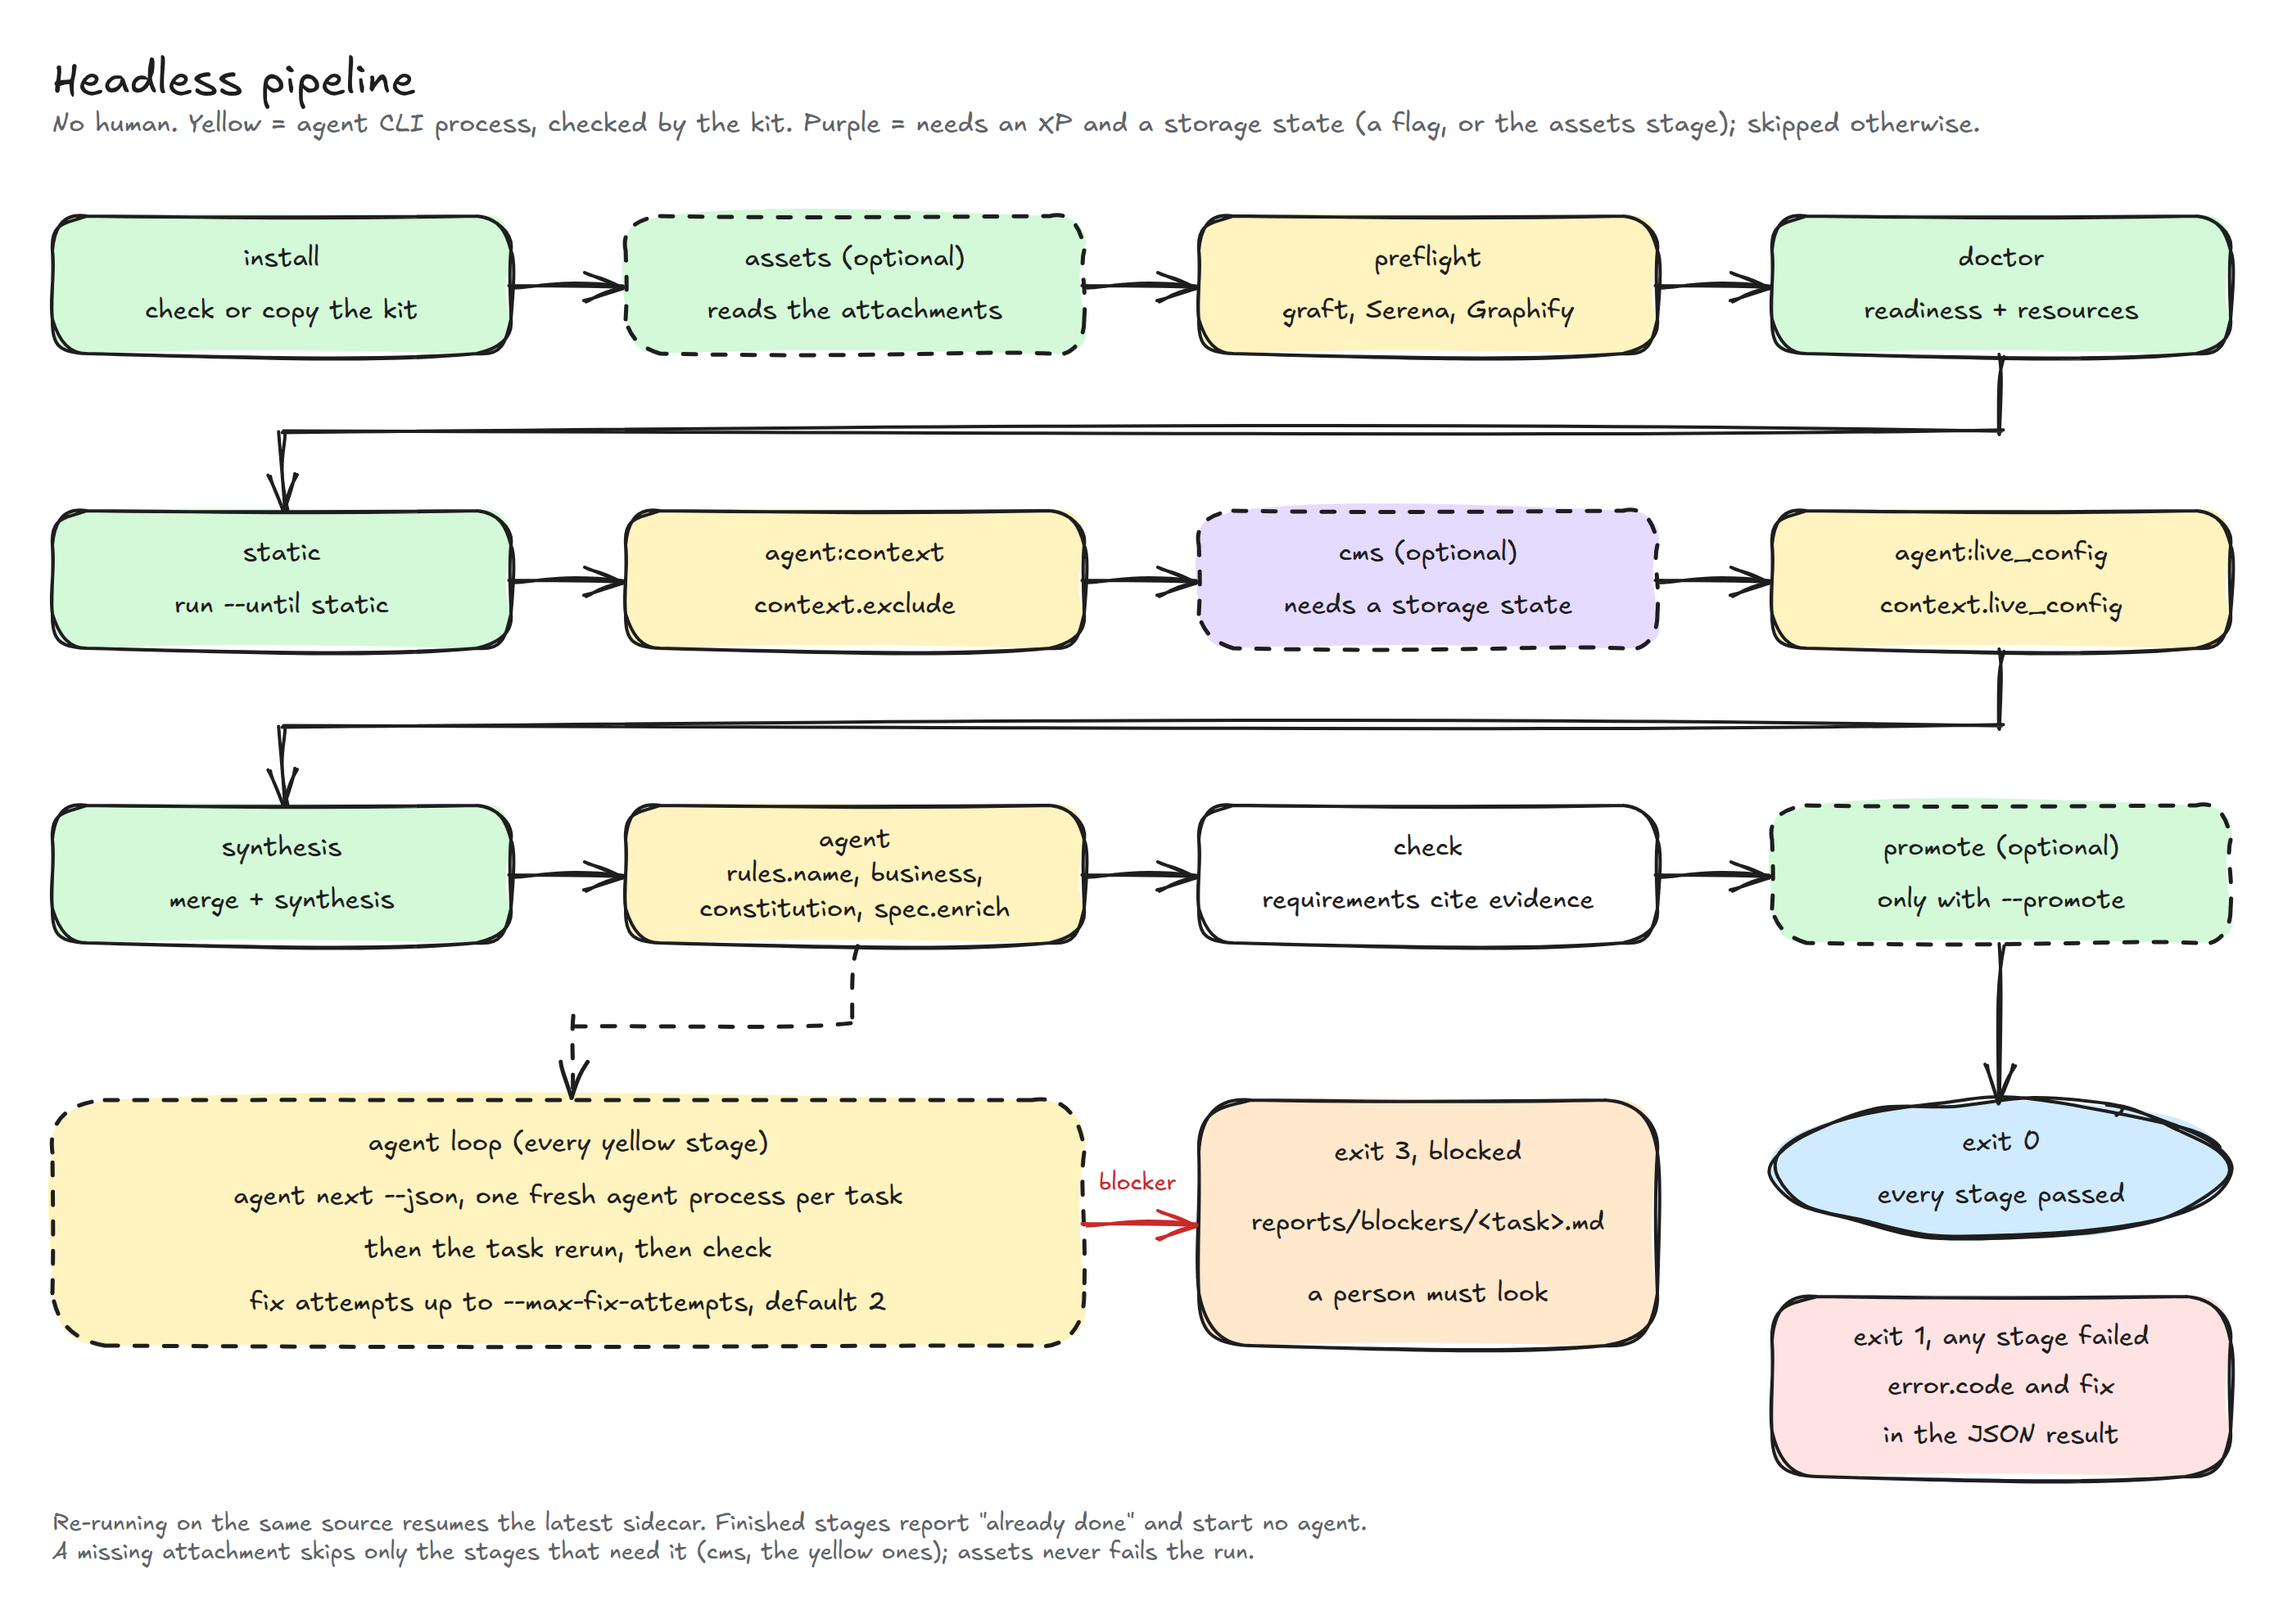
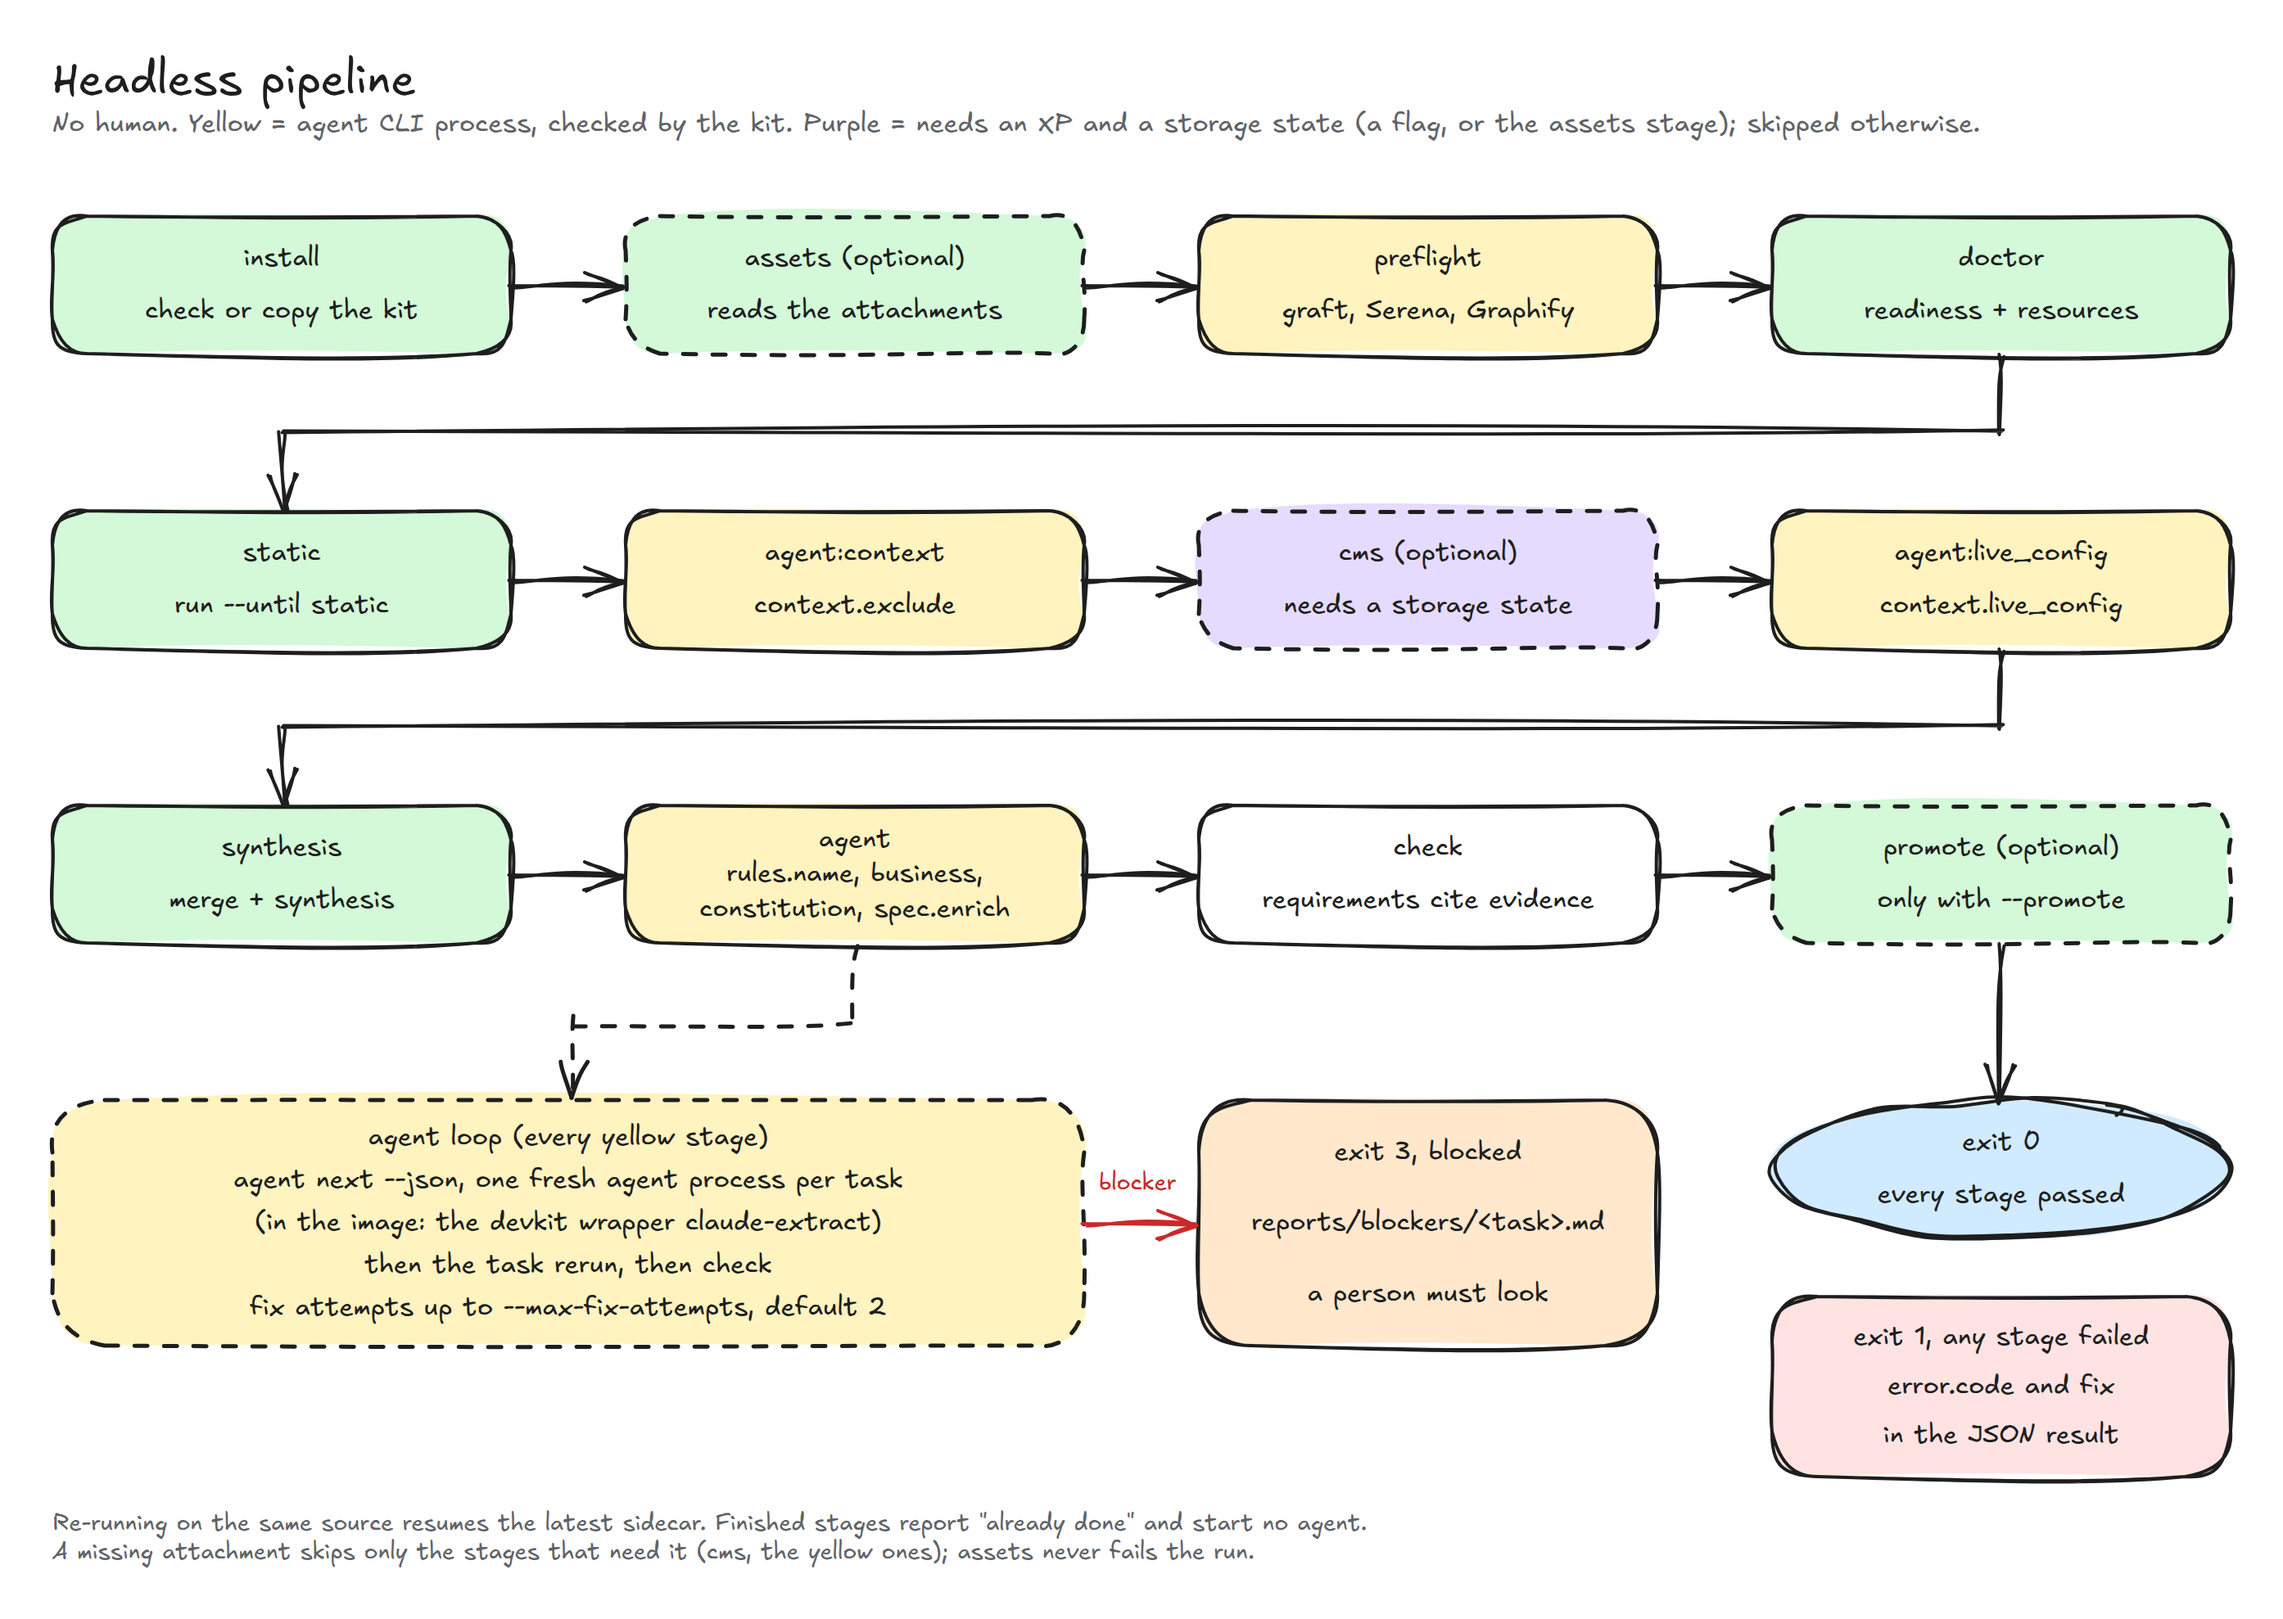
Pin devkit in CI and show it as a prerequisite in the docs and diagrams
* Pin DEVKIT_REF to devkit f8ab1af; the default image built and passed docker/smoke.sh against that commit
* docs/usage.md, flow.md and profiles.md: devkit is required on PATH, and deps can carry a fix: text
* Diagrams: devkit prerequisite in the install panel and phase 1 inputs, and the devkit wrapper in the headless agent loop; rebuilt PNGs and new excalidraw.com links

Changed region(s): [[0.0936, 0.6785, 0.4057, 0.8327]]

diff --git a/docs/diagrams/README.md b/docs/diagrams/README.md
@@ -11,17 +11,17 @@ phases and sidecar lineage. The README diagram (how it works) is separate.
 
 - [extractkit-flow.excalidraw](extractkit-flow.excalidraw)
 - [extractkit-flow.png](extractkit-flow.png)
-- Open: <https://excalidraw.com/#json=SF9ZfaEMABdwCSaedjh0v,DCd7sOP3fXj1JwN2oRKpwQ>
+- Open: <https://excalidraw.com/#json=V2_8BWw_qv1BXk24h2xhZ,mJmssw5ikE0iBX8auGxjsQ>
 
 ## Individual
 
 | Panel | Source | Preview | Open |
 | --- | --- | --- | --- |
 | How it works (README) | [how-it-works.excalidraw](how-it-works.excalidraw) | [how-it-works.png](how-it-works.png) | [excalidraw.com](https://excalidraw.com/#json=CgbajXnyzM7-CHPKY6VNP,FXaohl_SOOt34Qp99684Zw) |
-| Install and where to run | [install-layout.excalidraw](install-layout.excalidraw) | [install-layout.png](install-layout.png) | [excalidraw.com](https://excalidraw.com/#json=A54UdRnExYtH8yUY_5Gwr,xhsHN4ksTQgTkkteitFZyA) |
+| Install and where to run | [install-layout.excalidraw](install-layout.excalidraw) | [install-layout.png](install-layout.png) | [excalidraw.com](https://excalidraw.com/#json=9Dk7QZDtitrYmc3ilCcnN,dYvpLG2ZC1ZgkqCdDnwxVA) |
 | Operator path | [operator-path.excalidraw](operator-path.excalidraw) | [operator-path.png](operator-path.png) | [excalidraw.com](https://excalidraw.com/#json=jdPyvKFgw96D-qEDHCCNw,lYai_UblZcwkcVdencu5Nw) |
-| Headless pipeline | [headless-pipeline.excalidraw](headless-pipeline.excalidraw) | [headless-pipeline.png](headless-pipeline.png) | [excalidraw.com](https://excalidraw.com/#json=yKd9OziT_Cdd_Lp8unI49,4SBK_0HSBwCQf6xmBNaUIA) |
-| Phases | [phases.excalidraw](phases.excalidraw) | [phases.png](phases.png) | [excalidraw.com](https://excalidraw.com/#json=75q1UyfrmmlQ9hUQE092V,6IHLa5VQArfFq3jxwX9Auw) |
+| Headless pipeline | [headless-pipeline.excalidraw](headless-pipeline.excalidraw) | [headless-pipeline.png](headless-pipeline.png) | [excalidraw.com](https://excalidraw.com/#json=95YBJyK6liGN99qfcYE2U,s2_YV3BgTsJFbyf-c1oQ7g) |
+| Phases | [phases.excalidraw](phases.excalidraw) | [phases.png](phases.png) | [excalidraw.com](https://excalidraw.com/#json=cvE7i06ADa5rLObHQZarb,_UeFz_OL_o0dyGPjF1qC1Q) |
 | Sidecar lineage | [sidecar-lineage.excalidraw](sidecar-lineage.excalidraw) | [sidecar-lineage.png](sidecar-lineage.png) | [excalidraw.com](https://excalidraw.com/#json=UZgDhl2KG8Kkdha2bzID3,EduNWGcD_lwBxxiY3LAtNQ) |
 
 The local `.excalidraw` and `.png` files show the detached install, the
@@ -36,7 +36,11 @@ lineage. Since 6 Oct they also show the `constitution` agent task, the
 canvas also show the `assets` stage (twelve stages) and the rule that a
 missing attachment skips stages instead of failing the run. Their
 excalidraw.com links were re-exported that day; the other four open the
-6 Oct version, which is still accurate. After a rebuild, re-export with
+6 Oct version. Since 9 Oct the install panel shows devkit as a
+prerequisite, the Phases panel lists it in the preflight input, and the
+headless agent loop names the devkit wrapper (`claude-extract`). Those four
+drawings were re-exported that day; operator path, sidecar lineage and how
+it works still open the 6 Oct version. After a rebuild, re-export with
 `excalidraw-cli export <file>.excalidraw` (that uploads the drawing) and
 replace the links.
 

diff --git a/docs/flow.md b/docs/flow.md
@@ -6,7 +6,8 @@ them.
 
 ## Operator path
 
-Install once with `./extractkit install` in the kit repo, then work from the
+Install devkit first (`deps` and `doctor` fail without it), then install once
+with `./extractkit install` in the kit repo, and work from the
 legacy checkout, in an agent session opened there. The install copies the kit
 into your home, so the kit checkout can be deleted afterwards, and the CLI
 refuses to run an extract from the kit repo.
@@ -92,7 +93,7 @@ the phase; it only makes the output thinner.
 <!-- markdownlint-disable MD013 -->
 | # | Phase | Required input | Optional input | Output |
 | --- | --- | --- | --- | --- |
-| 1 | `preflight` | Python 3.12+ with PyYAML and jsonschema; with `--source`: the checkout's Serena onboarding (`.serena/`) and Graphify index (`graphify-out/`) | graft index (`graft/`, a warning when absent); `--profile` (which deps to probe) | **No sidecar.** The install check, and a report with the stack it would detect and the build scope |
+| 1 | `preflight` | Python 3.12+ with PyYAML and jsonschema; `devkit` on PATH; with `--source`: the checkout's Serena onboarding (`.serena/`) and Graphify index (`graphify-out/`) | graft index (`graft/`, a warning when absent); `--profile` (which deps to probe) | **No sidecar.** The install check, and a report with the stack it would detect and the build scope |
 | 2 | `context` | `--source`; one stack marker unless `--profile` is given | `--profile` (skips detection); `--exclude`; `<checkout>/.extractkit/profile.yaml` | **`context/build-scope.json`**, **`context/profile.yaml`** (the overlay) |
 | 3 | `static` | `--source`; the overlay from phase 2 (`run` writes it when missing) | `graft/`, `graphify-out/` (`map.code`, `map.semantic`); `--exclude`; the `exclude` decided by `context.exclude` | **`inventory/static.json`**, `inventory/controllers.json`, `inventory/templates.json`, **`map/*.json`**, **`integrations/openapi.yaml`**, `integrations/swagger-ui/`, `MANIFEST.yaml` |
 | 4 | `cms` (optional phase) | A local or review XP; `--branch draft\|master`; `--storage-state` (a Playwright login) | `--guillotine`, `--xp-host`, `--project` (default `http://localhost:8080`, project `en`); `--cms-key` (default `/en`); `--configenv`; `--round2`; the overlay's `live_config`; `playwright-cli` and `--site-url` for `inventory.baseline` | **`inventory/runtime.json`**, `inventory/live-config-candidates.json`, `inventory/content-volume.{json,md}`, `x-production-endpoints` in `openapi.yaml`; `baseline/` (optional slot) |

diff --git a/docs/profiles.md b/docs/profiles.md
@@ -21,7 +21,7 @@ Extractor types are YAML files under `profiles/`.
 | `pipeline` | Ordered slot ids. |
 | `phases` | `id`, `title`, and either `slots` (list) or `command` (`doctor`, `check`, `promote`). |
 | `adapters` | Slot → plugin id, or `null` for unbound. |
-| `deps` | Entries with `provides` (binaries on PATH), `optional: true`, install hints `apt` / `dnf` / `pacman`, `probe` (argv list; exit 0 within 5 s is ok), `python_modules` (importable names) and `python` (a version bound such as `">=3.12"`). `core` declares `python3`, `git`, `graft`, `serena` and `graphify`; every profile inherits them. |
+| `deps` | Entries with `provides` (binaries on PATH), `optional: true`, install hints `apt` / `dnf` / `pacman`, `probe` (argv list; exit 0 within 5 s is ok), `python_modules` (importable names) and `python` (a version bound such as `">=3.12"`). A dep can carry `fix:`, a text printed instead of the install hints. `core` declares `python3`, `git`, `devkit` (required, with a `fix:`), `graft`, `serena` and `graphify`; every profile inherits them. |
 | `todo` | Unfinished work, printed when `run` refuses. |
 | `optional_slots` | Slots that may stay unbound or empty without blocking `run`, `status` or `resume` (`inventory.baseline`, `report.compat`). |
 | `cms` | Enonic CMS defaults (below). |

diff --git a/docker/README.md b/docker/README.md
@@ -41,8 +41,8 @@ In GitLab CI the `docker-build` job fetches devkit at `DEVKIT_REF` from
 `DEVKIT_URL` with the job token. That works when 99x-dev-kit lists this project
 under Settings > CI/CD > Job token permissions. If it does not, an operator
 creates the masked CI variable `CI_DEVKIT_TOKEN` (a token with
-`read_repository` on 99x-dev-kit), which the job uses as a fallback. Pin
-`DEVKIT_REF` to a devkit tag or commit before the first run.
+`read_repository` on 99x-dev-kit), which the job uses as a fallback.
+`DEVKIT_REF` is a pinned devkit commit; bump it to take a newer devkit.
 
 ### `latest`
 

diff --git a/docs/usage.md b/docs/usage.md
@@ -28,8 +28,10 @@ the kit and for the rule-naming step.
 
 ## Install
 
-Python 3.12+ with PyYAML and jsonschema (already on the reference box).
-From the kit repo, once:
+Python 3.12+ with PyYAML and jsonschema (already on the reference box), and
+[devkit](https://git.seeds.no/williams/99x-dev-kit) on PATH: `deps` and
+`doctor` fail with the install steps when `devkit` is missing. From the kit
+repo, once:
 
 ```bash
 ./extractkit install
